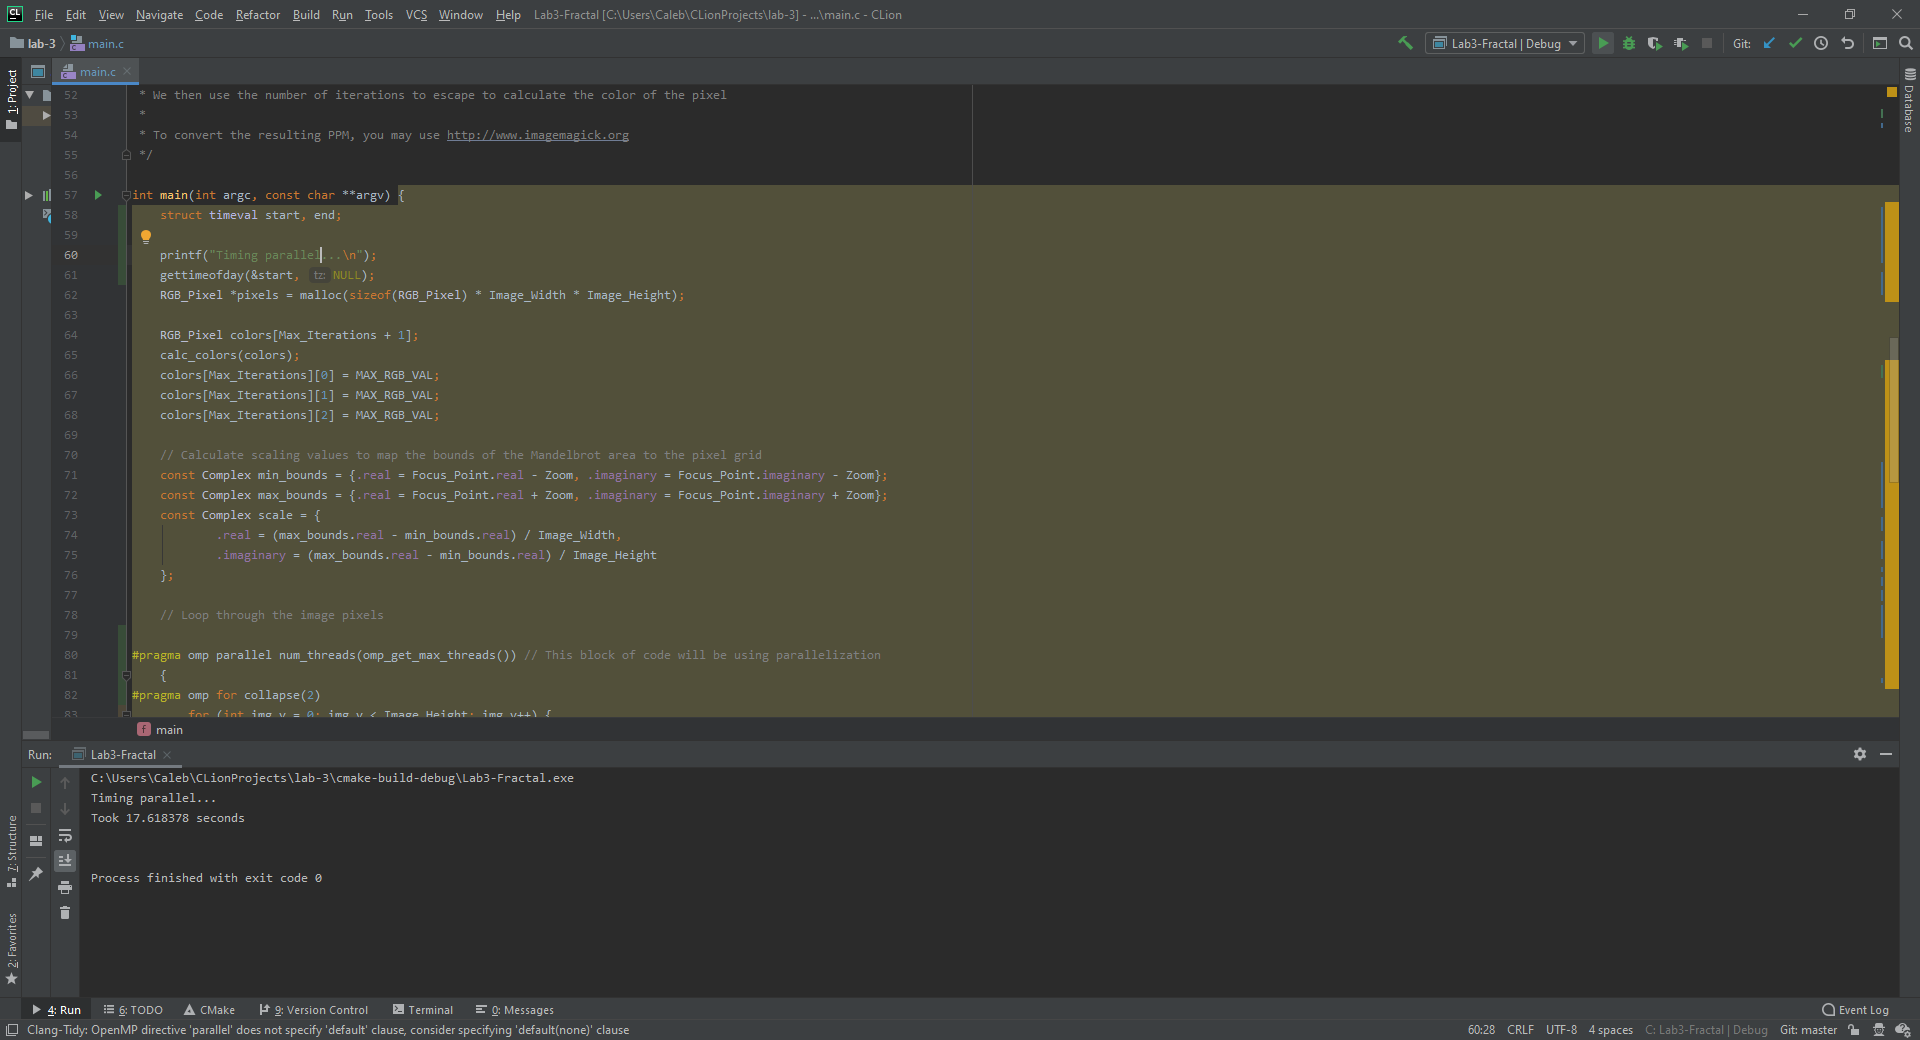
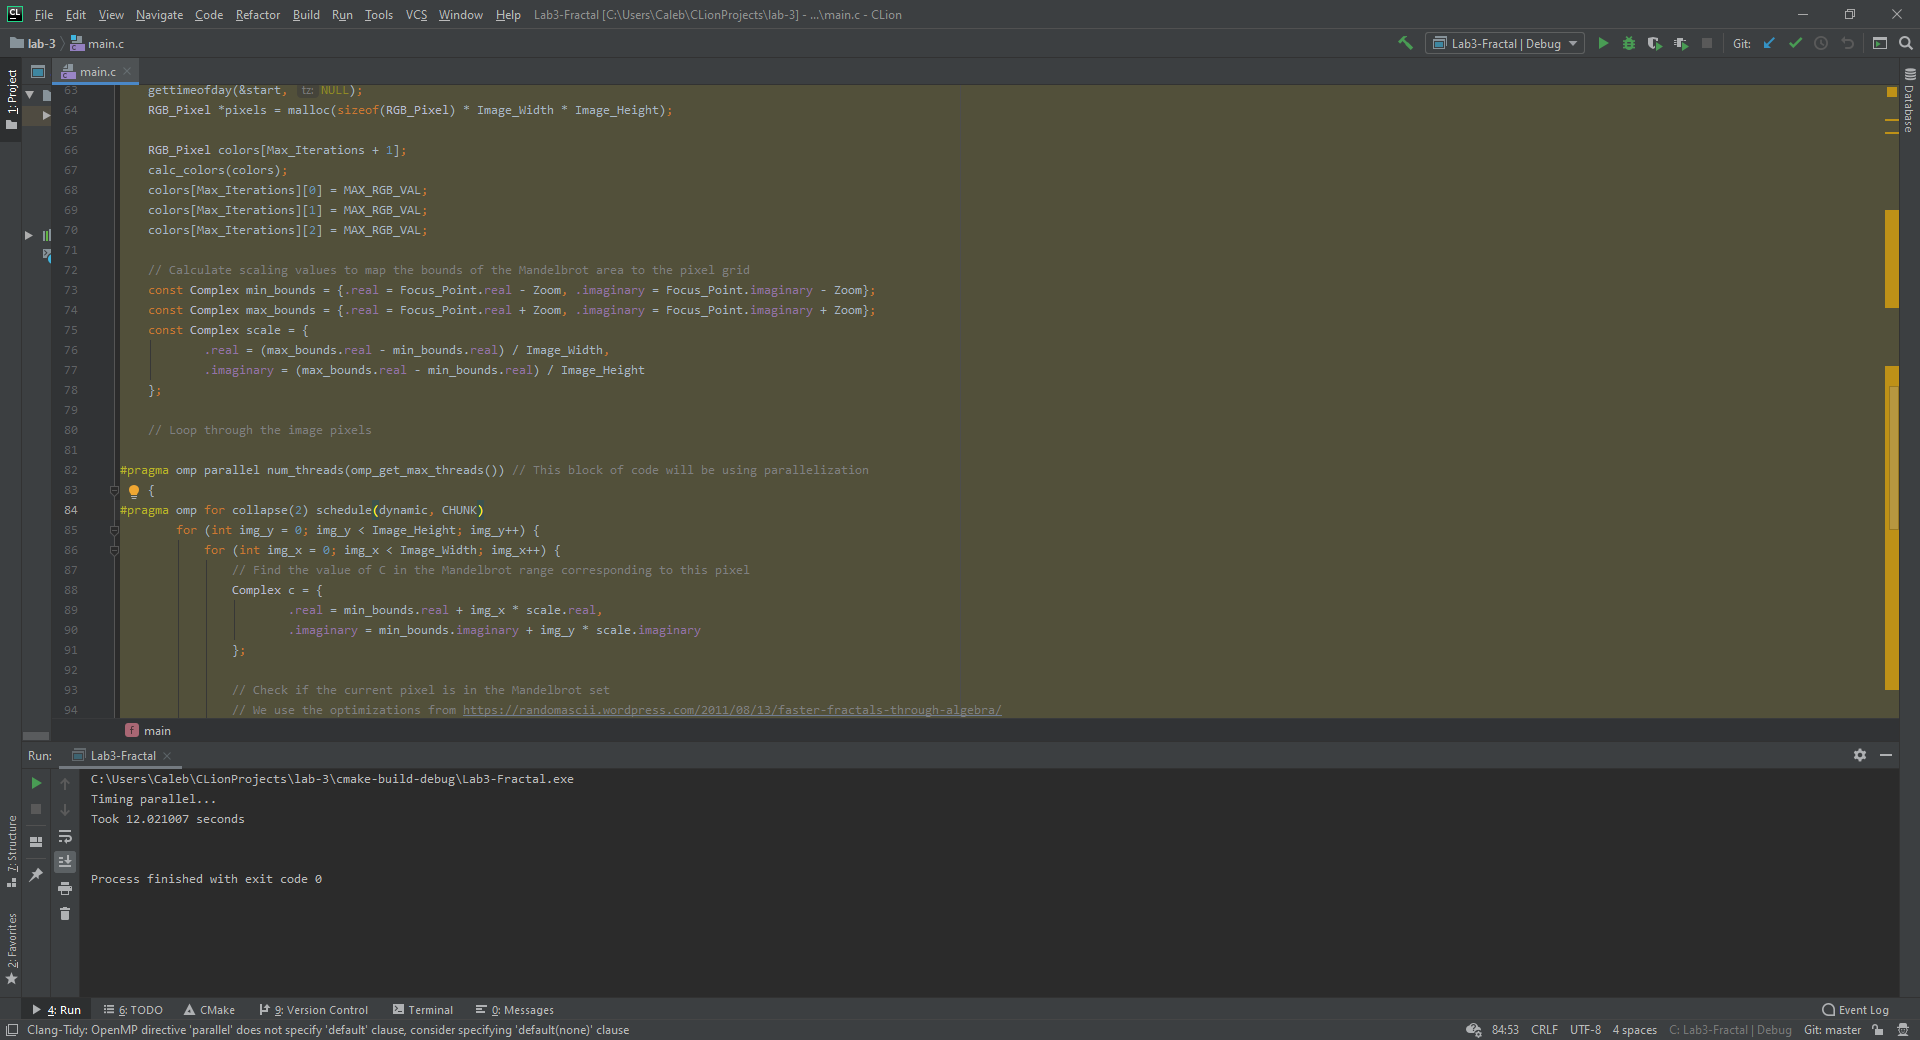
Final Commit

diff --git a/lab-3/main.c b/lab-3/main.c
@@ -5,6 +5,8 @@
 #include <time.h>
 #include <sys/time.h>
 
+const int CHUNK = 100;
+
 typedef struct Complex {
     long double real;
     long double imaginary;
@@ -79,7 +81,7 @@ int main(int argc, const char **argv) {
 
 #pragma omp parallel num_threads(omp_get_max_threads()) // This block of code will be using parallelization
     {
-#pragma omp for collapse(2)
+#pragma omp for collapse(2) schedule(dynamic, CHUNK)
         for (int img_y = 0; img_y < Image_Height; img_y++) {
             for (int img_x = 0; img_x < Image_Width; img_x++) {
                 // Find the value of C in the Mandelbrot range corresponding to this pixel
